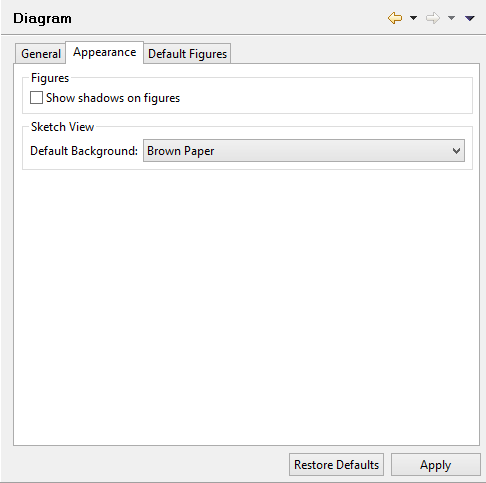
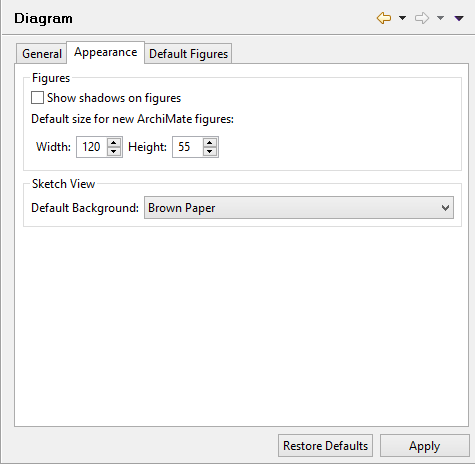
[Default Sizes] Update Help

Changed region(s): [[0.0, 0.0, 1.0, 0.9957]]

diff --git a/com.archimatetool.help/help/Text/prefs_diagram.html b/com.archimatetool.help/help/Text/prefs_diagram.html
@@ -98,6 +98,11 @@
         <br/>If enabled diagram elements are drawn with a shadow.
     </p>
     
+    <p>
+        <strong>Default size for new ArchiMate figures</strong>
+        <br/>Set the default width and height for new ArchiMate figures.
+    </p>
+
     <h3>Sketch</h3>
     <p>
         <strong>Default Background</strong>
